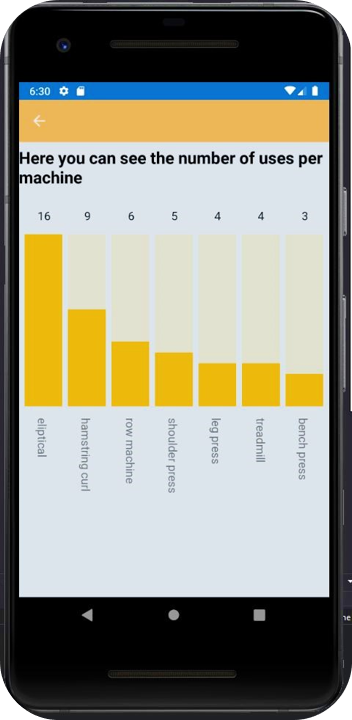
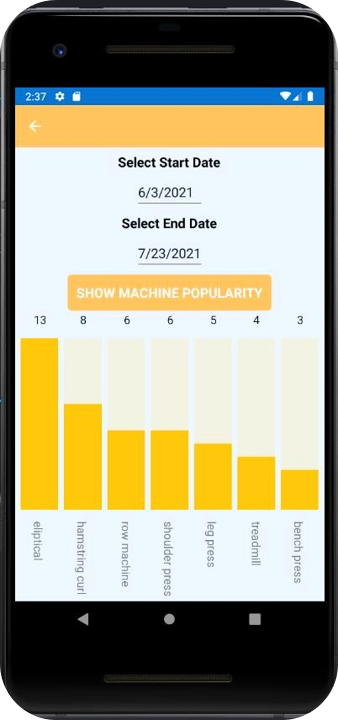
added date range to machine popularity stats

diff --git a/exampleApp/exampleApp/exampleApp/OwnerStatistics/MachinesPopularity.xaml b/exampleApp/exampleApp/exampleApp/OwnerStatistics/MachinesPopularity.xaml
@@ -5,9 +5,21 @@
              x:Class="exampleApp.OwnerStatistics.MachinesPopularity">
     <ContentPage.Content>
         <StackLayout>
-            <Label Text="Here you can see the number of uses per machine"
-                   Margin="0,5" FontSize="Large" TextColor="Black"></Label>
-            <microcharts:ChartView x:Name="chartViewBar" HeightRequest="380" Margin="0,20"/>
+            <ScrollView>
+                <StackLayout>
+                    <Label Text="Here you can see the number of uses per machine"
+                           Margin="0,5" FontSize="Large" TextColor="Black"></Label>
+                    <Label Text="Select Start Date" HorizontalOptions="Center" TextColor="Black" Margin="0"></Label>
+                    <DatePicker x:Name="DatePickerStart" HorizontalOptions="Center" Margin="0"
+                                DateSelected="DatePickerStart_DateSelected"></DatePicker>
+                    <Label Text="Select End Date" HorizontalOptions="Center" TextColor="Black" Margin="0"></Label>
+                    <DatePicker x:Name="DatePickerEnd" HorizontalOptions="Center" Margin="0"
+                                DateSelected="DatePickerEnd_DateSelected"></DatePicker>
+                    <Button x:Name="ButtonShowPop"  HorizontalOptions="Center" Text="Show Machine Popularity" 
+                            Clicked="ButtonShowPop_Clicked" Margin="0"></Button>
+                    <microcharts:ChartView x:Name="chartViewBar" HeightRequest="380" Margin="0"/>
+                </StackLayout>
+            </ScrollView>
         </StackLayout>
     </ContentPage.Content>
 </ContentPage>

diff --git a/DocumentationWebsiteSmartGym/index.html b/DocumentationWebsiteSmartGym/index.html
@@ -505,7 +505,7 @@
                 <div class="col-lg-6 col-md-10">
                     <div class="section-title text-center pb-10">
                         <h3 class="title">Gym Owner's Statistics</h3>
-                        <p class="text">We provide the below statistics for the gym owner:<br/>1) Find out which machines are the most popular in the gym in order to make the right decision regarding machines purchasing.<br/>2) Check which hours are popular for better planning of the instructors shifts.</p>
+                        <p class="text">We provide the below statistics for the gym owner:<br/>1) Select a date range and find out which machines are the most popular in the gym in order to make the right decision regarding machines purchasing.<br/>2) Check which hours are popular for better planning of the instructors shifts.</p>
                     </div> <!-- row -->
                 </div>
             </div> <!-- row -->

diff --git a/exampleApp/exampleApp/exampleApp/OwnerStatistics/HoursPopularityxaml.xaml b/exampleApp/exampleApp/exampleApp/OwnerStatistics/HoursPopularityxaml.xaml
@@ -9,7 +9,7 @@
                 <StackLayout>
                     <Label Text="Here you can see which are the busiest hours of the day (1-24)"
                            Margin="0,5" FontSize="Large" TextColor="Black"></Label>
-                    <microcharts:ChartView x:Name="chartViewPie" HeightRequest="300"/>
+                    <microcharts:ChartView x:Name="chartViewPie" HeightRequest="280"/>
                 </StackLayout>
             </ScrollView>
         </StackLayout>

diff --git a/exampleApp/exampleApp/exampleApp/OwnerStatistics/MachinesPopularity.xaml.cs b/exampleApp/exampleApp/exampleApp/OwnerStatistics/MachinesPopularity.xaml.cs
@@ -22,9 +22,13 @@ namespace exampleApp.OwnerStatistics
         public MachinesPopularity()
         {
             InitializeComponent();
-            ConnectDataBase();
-            MachinesPop();
+            ConnectDataBase();            
         }
+
+        private DateTime DateStart = DateTime.Now;
+        private DateTime DateEnd = DateTime.Now;
+
+        /*connect to dataBase*/
         private MySqlConnection conn;
         private void ConnectDataBase()
         {
@@ -57,11 +61,15 @@ namespace exampleApp.OwnerStatistics
          and present it in the microchart*/
         private void MachinesPop()
         {
+            string start_date = DateStart.ToString("yyyy-MM-dd");
+            string end_date = DateEnd.ToString("yyyy-MM-dd");
             string cmd_text = $"select machines.name, count(*) " +
                 $"from usage_gym, machines " +
                 $"where machines.idmachine = usage_gym.idmachine " +
+                $"and date(usage_gym.start) >= '{start_date}' " +
+                $"and date(usage_gym.start) <= '{end_date}' " +
                 $"group by usage_gym.idmachine order by count(*) desc ";
-            List<Tuple<string, long>> MachineNumUses = new List<Tuple<string, long>>();
+            List<Tuple<string, long>> MachineNumUses = new List<Tuple<string, long>>();            
             MySqlCommand cmd = new MySqlCommand(cmd_text, conn);
             MySqlDataReader rdr = cmd.ExecuteReader();
             if (rdr.HasRows)
@@ -71,14 +79,14 @@ namespace exampleApp.OwnerStatistics
                     string machineName = (string)rdr[0];
                     Console.WriteLine(machineName);
                     long machineNumUses = (long)rdr[1];
-                    MachineNumUses.Add(Tuple.Create(machineName, machineNumUses));
-
+                    MachineNumUses.Add(Tuple.Create(machineName, machineNumUses));                    
                 }                
             }
             rdr.Close();
+            int count = 0;
             List<ChartEntry> entries = new List<ChartEntry>();
             foreach (Tuple<string, long> tuple in MachineNumUses)
-            {
+            {                
                 string machine_name = tuple.Item1.ToString();
                 string new_name = machine_name.Replace('_', ' ');
                 ChartEntry ce = new ChartEntry(tuple.Item2)
@@ -98,6 +106,21 @@ namespace exampleApp.OwnerStatistics
                 LabelTextSize = 40,                
                 BackgroundColor = SKColor.Parse("#00ffffff")
             };            
+        }
+
+        private void DatePickerStart_DateSelected(object sender, DateChangedEventArgs e)
+        {
+            DateStart = DatePickerStart.Date;
+        }
+
+        private void DatePickerEnd_DateSelected(object sender, DateChangedEventArgs e)
+        {
+            DateEnd = DatePickerEnd.Date;
+        }
+
+        private void ButtonShowPop_Clicked(object sender, EventArgs e)
+        {
+            MachinesPop();
         }
     }
 }

diff --git a/exampleApp/exampleApp/exampleApp/OwnerStatistics/HoursPopularityxaml.xaml.cs b/exampleApp/exampleApp/exampleApp/OwnerStatistics/HoursPopularityxaml.xaml.cs
@@ -106,8 +106,8 @@ namespace exampleApp.OwnerStatistics
             chartViewPie.Chart = new RadarChart
             {
                 Entries = entries,              
-                LabelTextSize = 38,
-                PointSize = 25,
+                LabelTextSize = 30,
+                PointSize = 20,
                 PointMode = PointMode.Circle,
                 BackgroundColor = SKColor.Parse("#00ffffff")
             };

diff --git a/exampleApp/exampleApp/exampleApp/MachineStatsTrainee.xaml.cs b/exampleApp/exampleApp/exampleApp/MachineStatsTrainee.xaml.cs
@@ -50,6 +50,7 @@ namespace exampleApp
             public string End { get; set; }
             public string Date { get; set; }
         }
+
         /*connect to data base*/
         MySqlConnection conn;
         private void ConnectDataBase()
